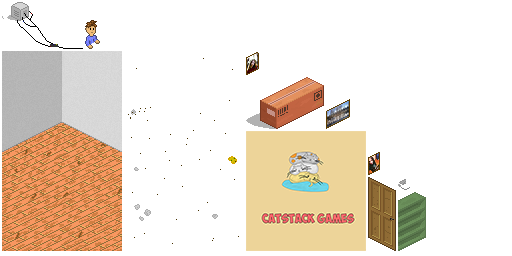
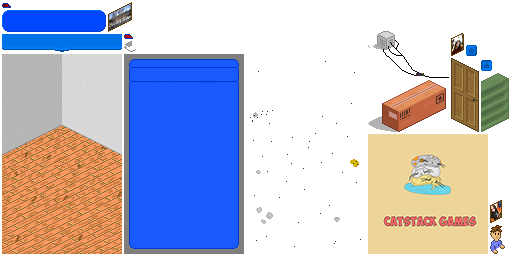
Some update

diff --git a/core/src/ru/catstack/programmerclicker/objects/interior/ScreenItems.java b/core/src/ru/catstack/programmerclicker/objects/interior/ScreenItems.java
@@ -3,8 +3,11 @@ package ru.catstack.programmerclicker.objects.interior;
 import com.badlogic.gdx.graphics.g2d.SpriteBatch;
 import ru.catstack.programmerclicker.engine.Core;
 import ru.catstack.programmerclicker.objects.Button;
+import ru.catstack.programmerclicker.resources.Fonts;
 import ru.catstack.programmerclicker.resources.IMG;
 import ru.catstack.programmerclicker.resources.Upgrades;
+import ru.catstack.programmerclicker.screens.Shop;
+import ru.catstack.programmerclicker.utils.TextUtils;
 
 public class ScreenItems {
 
@@ -22,16 +25,12 @@ public class ScreenItems {
     public static Button b2;
     public static Button b3;
 
+    public static Button shopButton;
+
     public static void init(){
-        house = new House();
-        door = new Door();
-        picture = new Picture();
-        table = new Table();
-        trashcan = new Trashcan();
-        shelf = new Shelf();
-        computer1 = new Computer1();
-        computer2 = new Computer2();
-        player = new Player();
+        itemsIni();
+        guiIni();
+        Shop.ini();
 
         b1 = new Button(IMG.PICTURE1.getTextureRegion(), Core.D_WIDTH_HALF/2-10, 10);
         b1.getSprite().scale(-0.5f);
@@ -45,6 +44,35 @@ public class ScreenItems {
     }
 
     public static void update(){
+        itemsUpdate();
+        if(Shop.isOpen)
+            Shop.update();
+        else
+            guiUpdate();
+    }
+
+    public static void draw(SpriteBatch batch){
+        itemsDraw(batch);
+
+        if(Shop.isOpen)
+            Shop.draw(batch);
+        else
+            guiDraw(batch);
+    }
+
+    private static void itemsIni(){
+        house = new House();
+        door = new Door();
+        picture = new Picture();
+        table = new Table();
+        trashcan = new Trashcan();
+        shelf = new Shelf();
+        computer1 = new Computer1();
+        computer2 = new Computer2();
+        player = new Player();
+    }
+
+    private static void itemsUpdate(){
         house.update();
         door.update();
         picture.update();
@@ -54,13 +82,9 @@ public class ScreenItems {
         computer1.update();
         computer2.update();
         player.update();
-
-        b1.update();
-        b2.update();
-        b3.update();
     }
 
-    public static void draw(SpriteBatch batch){
+    private static void itemsDraw(SpriteBatch batch){
         house.draw(batch);
         door.draw(batch);
         picture.draw(batch);
@@ -71,6 +95,25 @@ public class ScreenItems {
         computer2.draw(batch);
 
         trashcan.draw(batch);
+    }
+
+    public static void guiIni(){
+        shopButton = new Button(IMG.SHOP_BUTTON_UP.getTextureRegion(), IMG.SHOP_BUTTON_DOWN.getTextureRegion(), 2, 187);
+        shopButton.setAction(() -> Shop.isOpen = true);
+    }
+
+    public static void guiUpdate(){
+        shopButton.update();
+
+        b1.update();
+        b2.update();
+        b3.update();
+    }
+
+    public static void guiDraw(SpriteBatch batch){
+        batch.draw(IMG.HUD.getTextureRegion(), 0, 182);
+        shopButton.draw(batch);
+        TextUtils.centerTextRender(Fonts.DEFAULT_FONT.getFont(), String.valueOf(Core.codeLines), 196, batch);
 
         b1.draw(batch);
         b2.draw(batch);

diff --git a/core/src/ru/catstack/programmerclicker/objects/Button.java b/core/src/ru/catstack/programmerclicker/objects/Button.java
@@ -1,20 +1,41 @@
 package ru.catstack.programmerclicker.objects;
 
+import com.badlogic.gdx.Gdx;
 import com.badlogic.gdx.graphics.g2d.TextureRegion;
+import ru.catstack.programmerclicker.engine.Core;
 import ru.catstack.programmerclicker.utils.Utils;
 
 public class Button extends Object{
 
-    Runnable action = () -> {};
+    private Runnable action = () -> {};
+    private boolean isTouched = false;
+    private TextureRegion upTexture;
+    private TextureRegion downTexture;
 
-    public Button(TextureRegion textureRegion, float x, float y){
-        super(textureRegion, x, y);
+    public Button(TextureRegion upTexture, TextureRegion downTexture, float x, float y){
+        super(upTexture, x, y);
+        this.upTexture = upTexture;
+        this.downTexture = downTexture;
+    }
+
+    public Button(TextureRegion upTexture, float x, float y){
+        super(upTexture, x, y);
+        this.upTexture = upTexture;
     }
 
     @Override
     public void update(){
-        if(Utils.onObjectTouched(sprite.getBoundingRectangle())){
+        if(Utils.isObjectTouched(sprite.getBoundingRectangle())){
+            isTouched = true;
+            Core.onObjectClicked = true;
+            if(downTexture != null) sprite.setRegion(downTexture);
+        } else if(isTouched && !Gdx.input.isTouched()) {
+            isTouched = false;
             action.run();
+            sprite.setRegion(upTexture);
+        } else if(isTouched && Gdx.input.isTouched()){
+            isTouched = false;
+            sprite.setRegion(upTexture);
         }
     }
 

diff --git a/core/src/ru/catstack/programmerclicker/screens/GameScreen.java b/core/src/ru/catstack/programmerclicker/screens/GameScreen.java
@@ -4,8 +4,6 @@ import com.badlogic.gdx.Gdx;
 import ru.catstack.programmerclicker.engine.Core;
 import ru.catstack.programmerclicker.engine.MyGdxGame;
 import ru.catstack.programmerclicker.objects.interior.ScreenItems;
-import ru.catstack.programmerclicker.resources.Fonts;
-import ru.catstack.programmerclicker.utils.TextUtils;
 import ru.catstack.programmerclicker.utils.Timer;
 
 public class GameScreen extends Base2DScreen {
@@ -29,11 +27,17 @@ public class GameScreen extends Base2DScreen {
     public void update(float delta) {
         super.update(delta);
 
-        everySecond.update(delta);
-        if(Gdx.input.justTouched())
-            Core.codeLines += Core.codeEveryClick;
+
 
         ScreenItems.update();
+
+        if(!Shop.isOpen) {
+            everySecond.update(delta);
+            if (Gdx.input.justTouched() && !Core.onObjectClicked)
+                Core.codeLines += Core.codeEveryClick;
+        }
+
+        Core.onObjectClicked = false;
     }
 
     @Override
@@ -41,7 +45,6 @@ public class GameScreen extends Base2DScreen {
         super.draw();
         batch.begin();
         ScreenItems.draw(batch);
-        TextUtils.centerTextRender(Fonts.DEFAULT_FONT.getFont(), String.valueOf(Core.codeLines), Core.D_HEIGHT_HALF+64, batch);
         batch.end();
     }
 }

diff --git a/core/src/ru/catstack/programmerclicker/utils/Utils.java b/core/src/ru/catstack/programmerclicker/utils/Utils.java
@@ -6,7 +6,18 @@ import com.badlogic.gdx.math.Vector2;
 import ru.catstack.programmerclicker.engine.Core;
 
 public class Utils {
-    public static boolean onObjectTouched(Rectangle rectangle){
+
+    public static boolean isObjectTouched(Rectangle rectangle){
+        if(Gdx.input.isTouched()){
+            Vector2 mCoords = Core.viewport.unproject(new Vector2(Gdx.input.getX(), Gdx.input.getY()));
+            Rectangle mCoordsRect = new Rectangle(mCoords.x, mCoords.y, 1, 1);
+            return mCoordsRect.overlaps(rectangle);
+        }else {
+            return false;
+        }
+    }
+
+    public static boolean onObjectJustTouched(Rectangle rectangle){
         if(Gdx.input.justTouched()){
             Vector2 mCoords = Core.viewport.unproject(new Vector2(Gdx.input.getX(), Gdx.input.getY()));
             Rectangle mCoordsRect = new Rectangle(mCoords.x, mCoords.y, 1, 1);
@@ -14,5 +25,9 @@ public class Utils {
         }else {
             return false;
         }
+    }
+
+    public static float getDeltaY(){
+        return (float)Core.D_HEIGHT/(float)Core.viewport.getScreenHeight()*(float)Gdx.input.getDeltaY();
     }
 }

diff --git a/core/src/ru/catstack/programmerclicker/screens/Shop.java b/core/src/ru/catstack/programmerclicker/screens/Shop.java
@@ -1,0 +1,35 @@
+package ru.catstack.programmerclicker.screens;
+
+import com.badlogic.gdx.graphics.g2d.SpriteBatch;
+import ru.catstack.programmerclicker.objects.Button;
+import ru.catstack.programmerclicker.objects.ShopItem;
+import ru.catstack.programmerclicker.resources.IMG;
+
+public class Shop {
+
+    public static boolean isOpen = false;
+
+    private static Button close;
+
+    private static ShopItem shopItem1;
+
+    public static void ini(){
+        close = new Button(IMG.SHOP_CLOSE_BUTTON_UP.getTextureRegion(), IMG.SHOP_CLOSE_BUTTON_DOWN.getTextureRegion(), 104, 188);
+        close.setAction(() -> isOpen = false);
+
+        shopItem1 = new ShopItem(IMG.PICTURE1.getTextureRegion(), 8, 148);
+    }
+
+    public static void update(){
+        close.update();
+
+        shopItem1.update();
+    }
+
+    public static void draw(SpriteBatch batch){
+        batch.draw(IMG.SHOP_GUI.getTextureRegion(), 0, 0);
+        close.draw(batch);
+
+        shopItem1.draw(batch);
+    }
+}

diff --git a/core/src/ru/catstack/programmerclicker/objects/ShopItem.java b/core/src/ru/catstack/programmerclicker/objects/ShopItem.java
@@ -1,0 +1,33 @@
+package ru.catstack.programmerclicker.objects;
+
+import com.badlogic.gdx.graphics.g2d.Sprite;
+import com.badlogic.gdx.graphics.g2d.SpriteBatch;
+import com.badlogic.gdx.graphics.g2d.TextureRegion;
+import ru.catstack.programmerclicker.resources.IMG;
+
+public class ShopItem extends Object {
+
+    TextureRegion textureRegion;
+    Sprite sprite1;
+
+    public ShopItem(TextureRegion img, float x, float y) {
+        super(IMG.SHOP_ITEM.getTextureRegion(), x, y);
+        textureRegion = img;
+        float t = (float) img.getRegionHeight()/(float) 16;
+        sprite1 = new Sprite(textureRegion);
+        sprite1.scale(-t);
+        sprite1.setX(sprite.getX()+6);
+        sprite1.setY(sprite.getY()+3);
+    }
+
+    @Override
+    public void update() {
+        super.update();
+    }
+
+    @Override
+    public void draw(SpriteBatch batch) {
+        super.draw(batch);
+        sprite1.draw(batch);
+    }
+}

diff --git a/core/src/ru/catstack/programmerclicker/resources/IMG.java b/core/src/ru/catstack/programmerclicker/resources/IMG.java
@@ -17,6 +17,13 @@ public enum IMG {
     COMPUTER1_1("Computer1"),
     COMPUTER1_2("Computer2"),
     PLAYER1("Player1"),
+    HUD("HUD"),
+    SHOP_BUTTON_UP("ShopBUp"),
+    SHOP_BUTTON_DOWN("ShopBDown"),
+    SHOP_GUI("ShopGUI"),
+    SHOP_CLOSE_BUTTON_UP("ShopCloseButtonUp"),
+    SHOP_CLOSE_BUTTON_DOWN("ShopCloseButtonDown"),
+    SHOP_ITEM("ShopItem"),
     ;
 
     private static final String ATLAS_PATH = "ProgrammerClicker.pack";

diff --git a/core/src/ru/catstack/programmerclicker/resources/Fonts.java b/core/src/ru/catstack/programmerclicker/resources/Fonts.java
@@ -7,7 +7,7 @@ import com.badlogic.gdx.graphics.g2d.freetype.FreeTypeFontGenerator;
 import com.badlogic.gdx.graphics.g2d.freetype.FreeTypeFontGenerator.FreeTypeFontParameter;
 
 public enum Fonts {
-    DEFAULT_FONT("Minecraft_rus.ttf", 14, 1.5f, Color.WHITE, Color.BLACK),
+    DEFAULT_FONT("Minecraft_rus.ttf", 8, 0.6f, Color.WHITE, Color.BLACK),
     ;
 
     private final String path;

diff --git a/core/src/ru/catstack/programmerclicker/engine/Core.java b/core/src/ru/catstack/programmerclicker/engine/Core.java
@@ -19,6 +19,7 @@ public class Core {
     public static int codeEveryClick = 1;
     public static float money = 0;
     public static float moneyEverySecond = 0;
+    public static boolean onObjectClicked = false;
 
     public static void init(final int width, final int height) {
         WIDTH = width;
